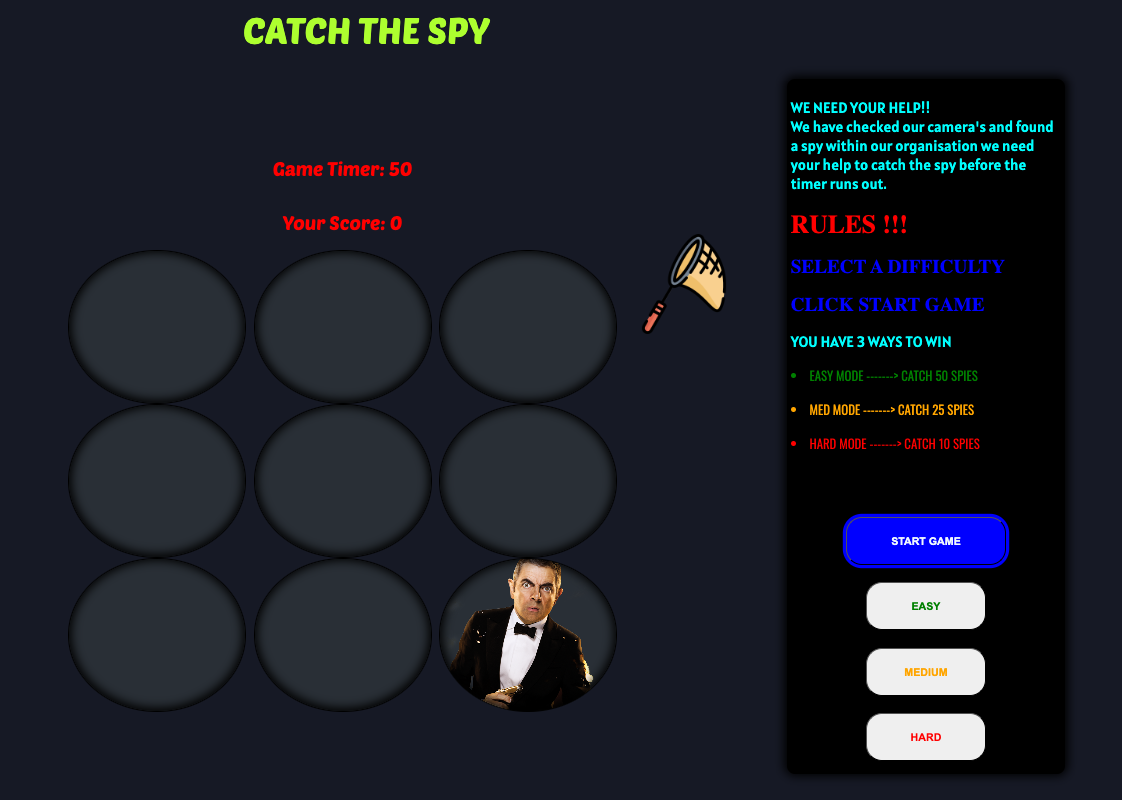
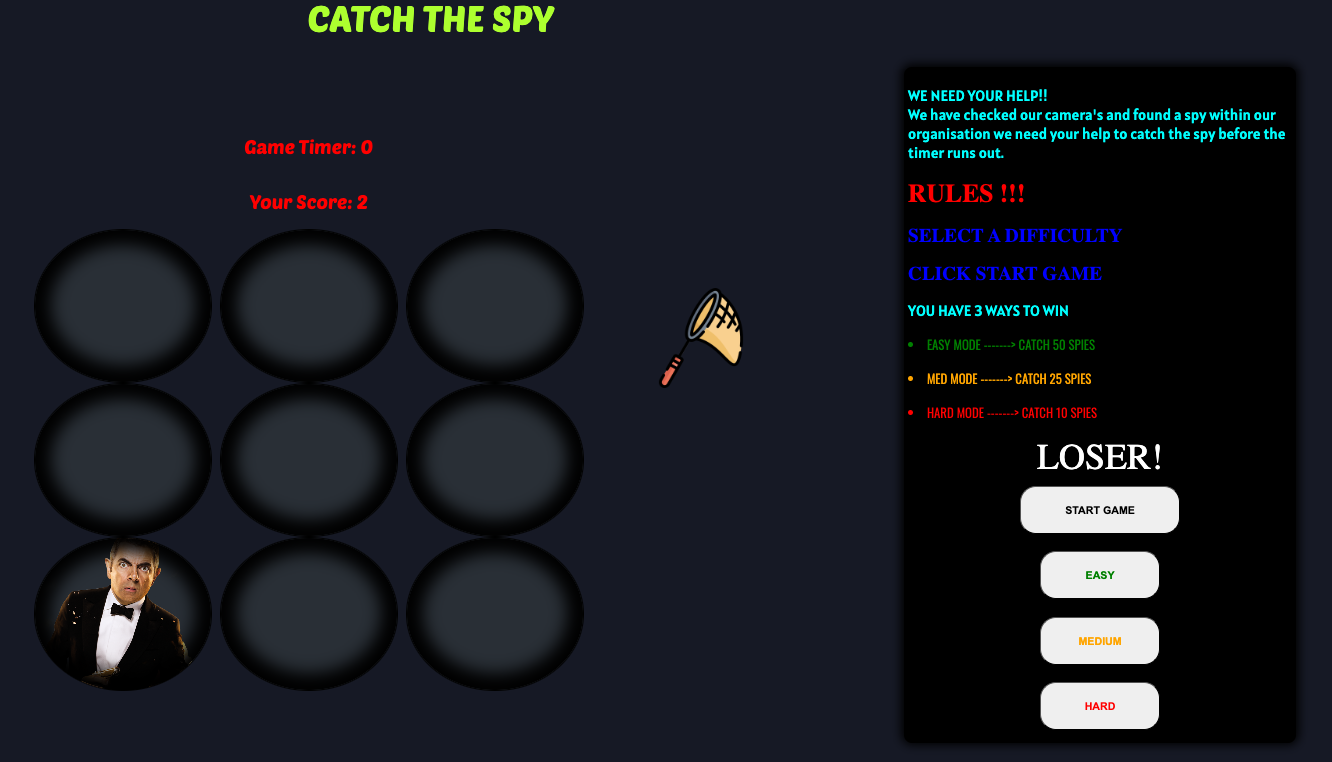
added last changed to css

diff --git a/style.css b/style.css
@@ -165,20 +165,20 @@ h3 {
 .spy {
 	background-image: url('./assests/english-spy.png');
 	background-repeat: no-repeat;
-	background-size: contain;
-	background-size: 200px;
+	background-size: 205px;
+	
 }
 
 .hole {
 	height: 190px;
-	width: 220px;
-	border: solid black 1px;
-	border-radius: 100%;
-	background-color: #292F36;
-	display: flex;
-	align-items: center;
-	text-align: center;
-	box-shadow: inset 0px -1px 12px 3px
+    width: 220px;
+    border: solid black 1px;
+    border-radius: 100%;
+    background-color: #292F36;
+    display: flex;
+    align-items: center;
+    text-align: center;
+    box-shadow: inset 0px -1px 20px 20px;
 }
 
 .button-container {

diff --git a/app.js b/app.js
@@ -127,7 +127,7 @@ const startGameButton = () => {
     result = 0;
     score.textContent = `Your Score: ${result}`;
 
-    gameTime = 60;
+    gameTime = 5;
     time.textContent = `Game Timer: ${gameTime}`;
     timer = setInterval(countDown, 1000);
 
